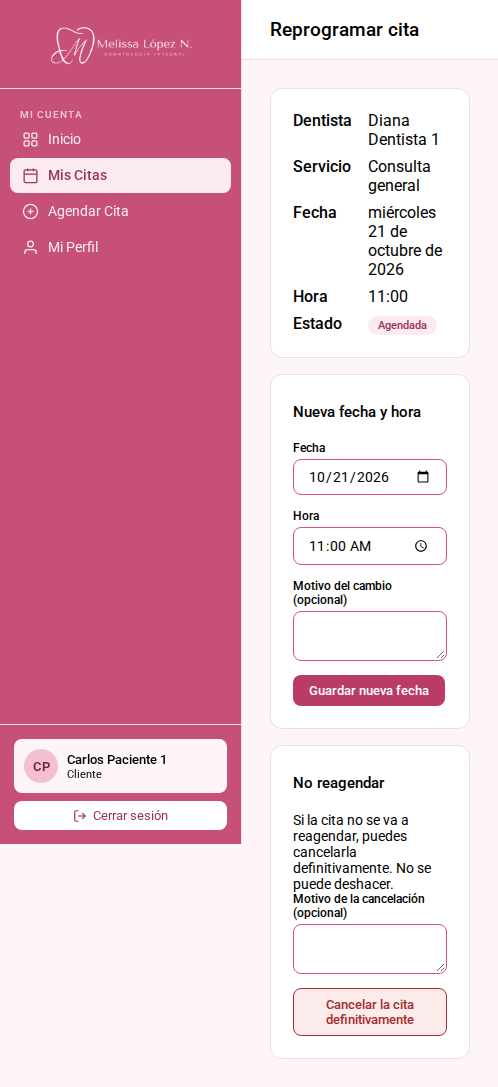
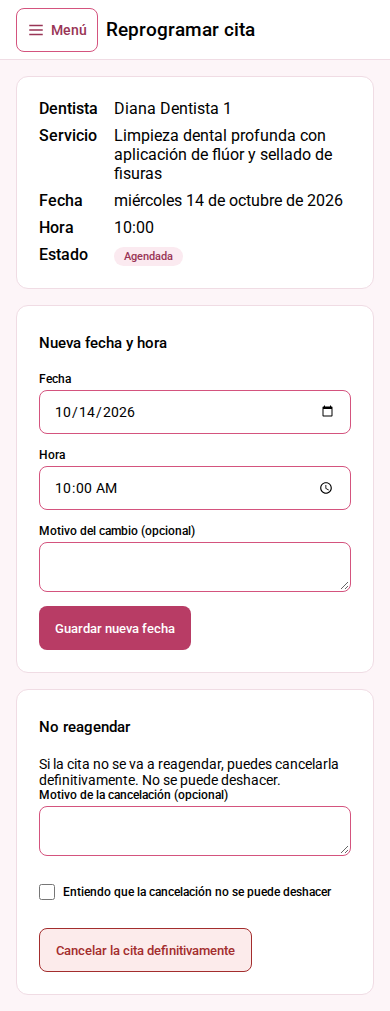
docs(033): T028 capturas del paciente a 320/390/1440 y del menú del móvil
Cubre: CA1, CA8
Tareas: docs/specs/033-movil-paciente/tasks.md

Claude-Session: https://claude.ai/code/session_017sm7frwtJdJ1dPniC2xeL5

diff --git a/docs/design/system.md b/docs/design/system.md
@@ -341,6 +341,7 @@ Todas son capturas reales (galería completa en `system.html` → Pantallas).
 | Panel del paciente | `system.html#cliente-dashboard-390` | `system.html#cliente-dashboard-1440` | banner, próxima cita, historial, accesos |
 | Reprogramar cita (personal) | `system.html#citas-reprogramar-admin-390` | `system.html#citas-reprogramar-admin-1440` | formulario accesible, resumen de la cita, badge, botón principal, `.btn-danger` |
 | Reprogramar cita (paciente) | `system.html#citas-reprogramar-cliente-390` | `system.html#citas-reprogramar-cliente-1440` | formulario accesible, resumen de la cita, badge, botón principal, `.btn-danger` |
+| Menú del móvil (spec 033) | `capturas/menu-abierto-cliente-390.png` · `capturas/menu-abierto-admin-390.png` | — (en el escritorio es la barra lateral) | botón «Menú», panel blanco, sección actual con `aria-current`, «Cerrar menú», velo |
 
 **Reprogramar cita (spec 028)**, del personal y del paciente: dentro de `.formulario-accesible`, una
 tarjeta con el resumen de la cita (paciente o dentista, servicio, fecha, hora y badge de estado), el
@@ -353,6 +354,11 @@ capturas a 390 y 1440 px son del 2026-10-10 (spec 028, T032), con `capturar.mjs`
 A 390 px, 54 de las 62 vistas se desbordan en horizontal: la página mide de 472 a 1157 px de ancho
 (DS8). Solo el acceso, el registro, los errores, los reportes y la edición del paciente por la
 dentista no se desbordan.
+
+**Móvil (spec 033):** el menú común y las 7 vistas del paciente ya no se desbordan de 320 a 1440 px
+(`capturar.mjs --medir`). Sus capturas a 320, 390 y 1440 px y las del menú abierto de cada rol a 390 son
+del 2026-10-11 (spec 033, T028), con la base de prueba y textos largos inventados; a 1440 son
+iguales a las de antes. Las vistas del personal siguen desbordándose en el móvil (resto de DS8).
 
 ## Inventario de vistas
 
@@ -419,13 +425,17 @@ rehacer el resto de la galería.
 | Nuevo paciente (asistente) | /asistente/pacientes/crear · pacientes/create | asistente | capturas/pacientes-create-asistente-390.png · capturas/pacientes-create-asistente-1440.png | capturada |
 | Ficha del paciente (asistente) | /asistente/pacientes/{id} · pacientes/show | asistente | capturas/pacientes-show-asistente-390.png · capturas/pacientes-show-asistente-1440.png | capturada |
 | Expediente (asistente, solo lectura) | /asistente/expedientes/{id} · expedientes/show | asistente | capturas/expedientes-show-asistente-390.png · capturas/expedientes-show-asistente-1440.png | capturada |
-| Panel del paciente | /cliente · dashboard/cliente | cliente | capturas/cliente-dashboard-390.png · capturas/cliente-dashboard-1440.png | capturada |
-| Mis citas (próximas) | /cliente/citas · citas/cliente-index | cliente | capturas/citas-index-cliente-390.png · capturas/citas-index-cliente-1440.png | capturada |
-| Mis citas (pasadas) | /cliente/citas?filtro=pasadas · citas/cliente-index | cliente | capturas/citas-index-cliente-pasadas-390.png · capturas/citas-index-cliente-pasadas-1440.png | capturada |
-| Detalle de mi cita | /cliente/citas/{id} · citas/cliente-show | cliente | capturas/citas-show-cliente-390.png · capturas/citas-show-cliente-1440.png | capturada |
-| Reprogramar mi cita | /cliente/citas/{id}/reprogramar · citas/cliente-reprogramar | cliente | capturas/citas-reprogramar-cliente-390.png · capturas/citas-reprogramar-cliente-1440.png | capturada |
-| Agendar cita | /cliente/agendar · citas/cliente-agendar | cliente | capturas/cliente-agendar-390.png · capturas/cliente-agendar-1440.png | capturada |
-| Mi perfil | /cliente/perfil · cliente/perfil | cliente | capturas/cliente-perfil-390.png · capturas/cliente-perfil-1440.png | capturada |
+| Panel del paciente | /cliente · dashboard/cliente | cliente | capturas/cliente-dashboard-320.png · capturas/cliente-dashboard-390.png · capturas/cliente-dashboard-1440.png | capturada |
+| Mis citas (próximas) | /cliente/citas · citas/cliente-index | cliente | capturas/citas-index-cliente-320.png · capturas/citas-index-cliente-390.png · capturas/citas-index-cliente-1440.png | capturada |
+| Mis citas (pasadas) | /cliente/citas?filtro=pasadas · citas/cliente-index | cliente | capturas/citas-index-cliente-pasadas-320.png · capturas/citas-index-cliente-pasadas-390.png · capturas/citas-index-cliente-pasadas-1440.png | capturada |
+| Detalle de mi cita | /cliente/citas/{id} · citas/cliente-show | cliente | capturas/citas-show-cliente-320.png · capturas/citas-show-cliente-390.png · capturas/citas-show-cliente-1440.png | capturada |
+| Reprogramar mi cita | /cliente/citas/{id}/reprogramar · citas/cliente-reprogramar | cliente | capturas/citas-reprogramar-cliente-320.png · capturas/citas-reprogramar-cliente-390.png · capturas/citas-reprogramar-cliente-1440.png | capturada |
+| Agendar cita | /cliente/agendar · citas/cliente-agendar | cliente | capturas/cliente-agendar-320.png · capturas/cliente-agendar-390.png · capturas/cliente-agendar-1440.png | capturada |
+| Mi perfil | /cliente/perfil · cliente/perfil | cliente | capturas/cliente-perfil-320.png · capturas/cliente-perfil-390.png · capturas/cliente-perfil-1440.png | capturada |
+| Menú del móvil abierto (administración) | /admin (tras pulsar «Menú») · layouts/app | admin | capturas/menu-abierto-admin-390.png | capturada |
+| Menú del móvil abierto (dentista) | /dentista (tras pulsar «Menú») · layouts/app | dentista | capturas/menu-abierto-dentista-390.png | capturada |
+| Menú del móvil abierto (asistente) | /asistente (tras pulsar «Menú») · layouts/app | asistente | capturas/menu-abierto-asistente-390.png | capturada |
+| Menú del móvil abierto (paciente) | /cliente (tras pulsar «Menú») · layouts/app | cliente | capturas/menu-abierto-cliente-390.png | capturada |
 | Error 403 (por defecto de Laravel) | /admin con rol dentista · vista por defecto del framework | dentista | capturas/error-403-390.png · capturas/error-403-1440.png | capturada |
 | Error 404 (por defecto de Laravel) | /no-existe · vista por defecto del framework | dentista | capturas/error-404-390.png · capturas/error-404-1440.png | capturada |
 | Registro con Google: contacto | /registro/contacto · auth/registro-contacto | invitado | — | no accesible (exige volver del acceso con Google con `session('google_registro')`; no se simula sin la cuenta de Google) |

diff --git a/docs/specs/033-movil-paciente/tasks.md b/docs/specs/033-movil-paciente/tasks.md
@@ -84,7 +84,8 @@ Sobre el desglose (el análisis completo está en `plan.md`):
   - nota: desbloqueada 2026-10-11 — verificación manual OK (usuario): el detalle y agendar a 390 contra `system.html`; a 1440, idénticos a la línea base.
 - [x] T026 Comprobar con `--medir` las 7 vistas del paciente en todos sus anchos, incluidas las que no se prevé tocar (panel, resto del detalle, perfil y reprogramar) — (sin archivos) — hecho cuando: `--medir` no da ningún fallo en las 7 vistas; si alguno queda en un bloque que no está en «Bloques tocados», la tarea queda con `bloqueo:` hacia `/plan 033 --fix` para añadirlo (plan D10 y D12) · verificación manual: el panel, el perfil y reprogramar a 320, 390 y 1440 contra `system.html`; en el móvil del usuario, los campos de fecha, hora, teléfono y correo abren su selector o teclado (CA5) — cubre: CA1, CA4, CA5, CA6 — depende: T025
   - nota: `--medir` sin ningún fallo en las 7 vistas del paciente a todos sus anchos («todo en orden», código 0): no hizo falta tocar ningún bloque fuera de «Bloques tocados» (ni el panel, ni el resto del detalle, ni el perfil, ni reprogramar), así que no hubo `/plan --fix`. A 1440, el panel, el perfil y reprogramar son idénticos a la línea base. Verificación manual OK 2026-10-11 (usuario): panel, perfil y reprogramar a 390 contra `system.html`. Los teclados del móvil (fecha, hora, teléfono y correo) se comprueban en producción, en T097 (decisión del usuario); el tipo de cada campo ya lo fija `test_los_campos_conservan_su_tipo`.
-- [ ] T028 Rehacer con `capturar.mjs` las capturas de las 7 vistas del paciente a 320, 390 y 1440 y las del menú abierto de cada rol, y poner las filas nuevas en la tabla de pantallas de `system.md` — docs/design/capturas/ (generado por node capturar.mjs), docs/design/system.md — hecho cuando: las capturas existen con fecha de hoy y la tabla las enlaza · verificación manual: las capturas a 1440 del paciente y a 1024 y 1440 de las vistas del personal con rejillas son iguales a las de la línea base de T014 (CA8, A31) — cubre: CA1, CA8 — depende: T026
+- [x] T028 Rehacer con `capturar.mjs` las capturas de las 7 vistas del paciente a 320, 390 y 1440 y las del menú abierto de cada rol, y poner las filas nuevas en la tabla de pantallas de `system.md` — docs/design/capturas/ (generado por node capturar.mjs), docs/design/system.md — hecho cuando: las capturas existen con fecha de hoy y la tabla las enlaza · verificación manual: las capturas a 1440 del paciente y a 1024 y 1440 de las vistas del personal con rejillas son iguales a las de la línea base de T014 (CA8, A31) — cubre: CA1, CA8 — depende: T026
+  - nota: 25 capturas de 2026-10-11 en `docs/design/capturas/`: las 7 vistas del paciente a 320, 390 y 1440 (21) y el menú abierto de cada rol a 390 (4). En `system.md`, el inventario lista las capturas a 320 y las 4 vistas del menú, la tabla de pantallas tiene la fila «Menú del móvil» y hay una nota de DS8. Comparación con la línea base de T014 (CA8, A31): las 7 vistas del paciente a 1440, idénticas píxel a píxel; las 18 vistas del personal con rejillas a 1024 y 1440, idénticas salvo `usuarios-create` a 1440 (7 píxeles de intensidad 1, ruido de renderizado). Verificación manual OK 2026-10-11 (usuario), con las capturas de T023–T026.
 
 ## Integración y documentación
 - [ ] T040 Hacer la verificación final — (sin archivos) — hecho cuando: `php artisan test` completo da la línea base de T002 más los tests nuevos, todos en verde; `pint --test` pasa en `MovilPacienteTest`, `ReglasCss`, `ReglasCssTest` y `ReprogramarCitaVistasTest`; `node capturar.mjs --medir` termina con código 0 (7 vistas, todos los anchos, 4 roles, sin JS); gitleaks sin fugas, y `composer audit`, `npm audit` y `trivy fs --severity HIGH,CRITICAL` sin avisos nuevos respecto a T002; la base `dentissa_capturas`, su servidor, el volumen de Playwright y toda la línea base del escritorio (1024 y 1440) quedan borrados, y la imagen de Playwright se conserva — cubre: CA1, CA2, CA3, CA4, CA5, CA6, CA7, CA8 — depende: T028
